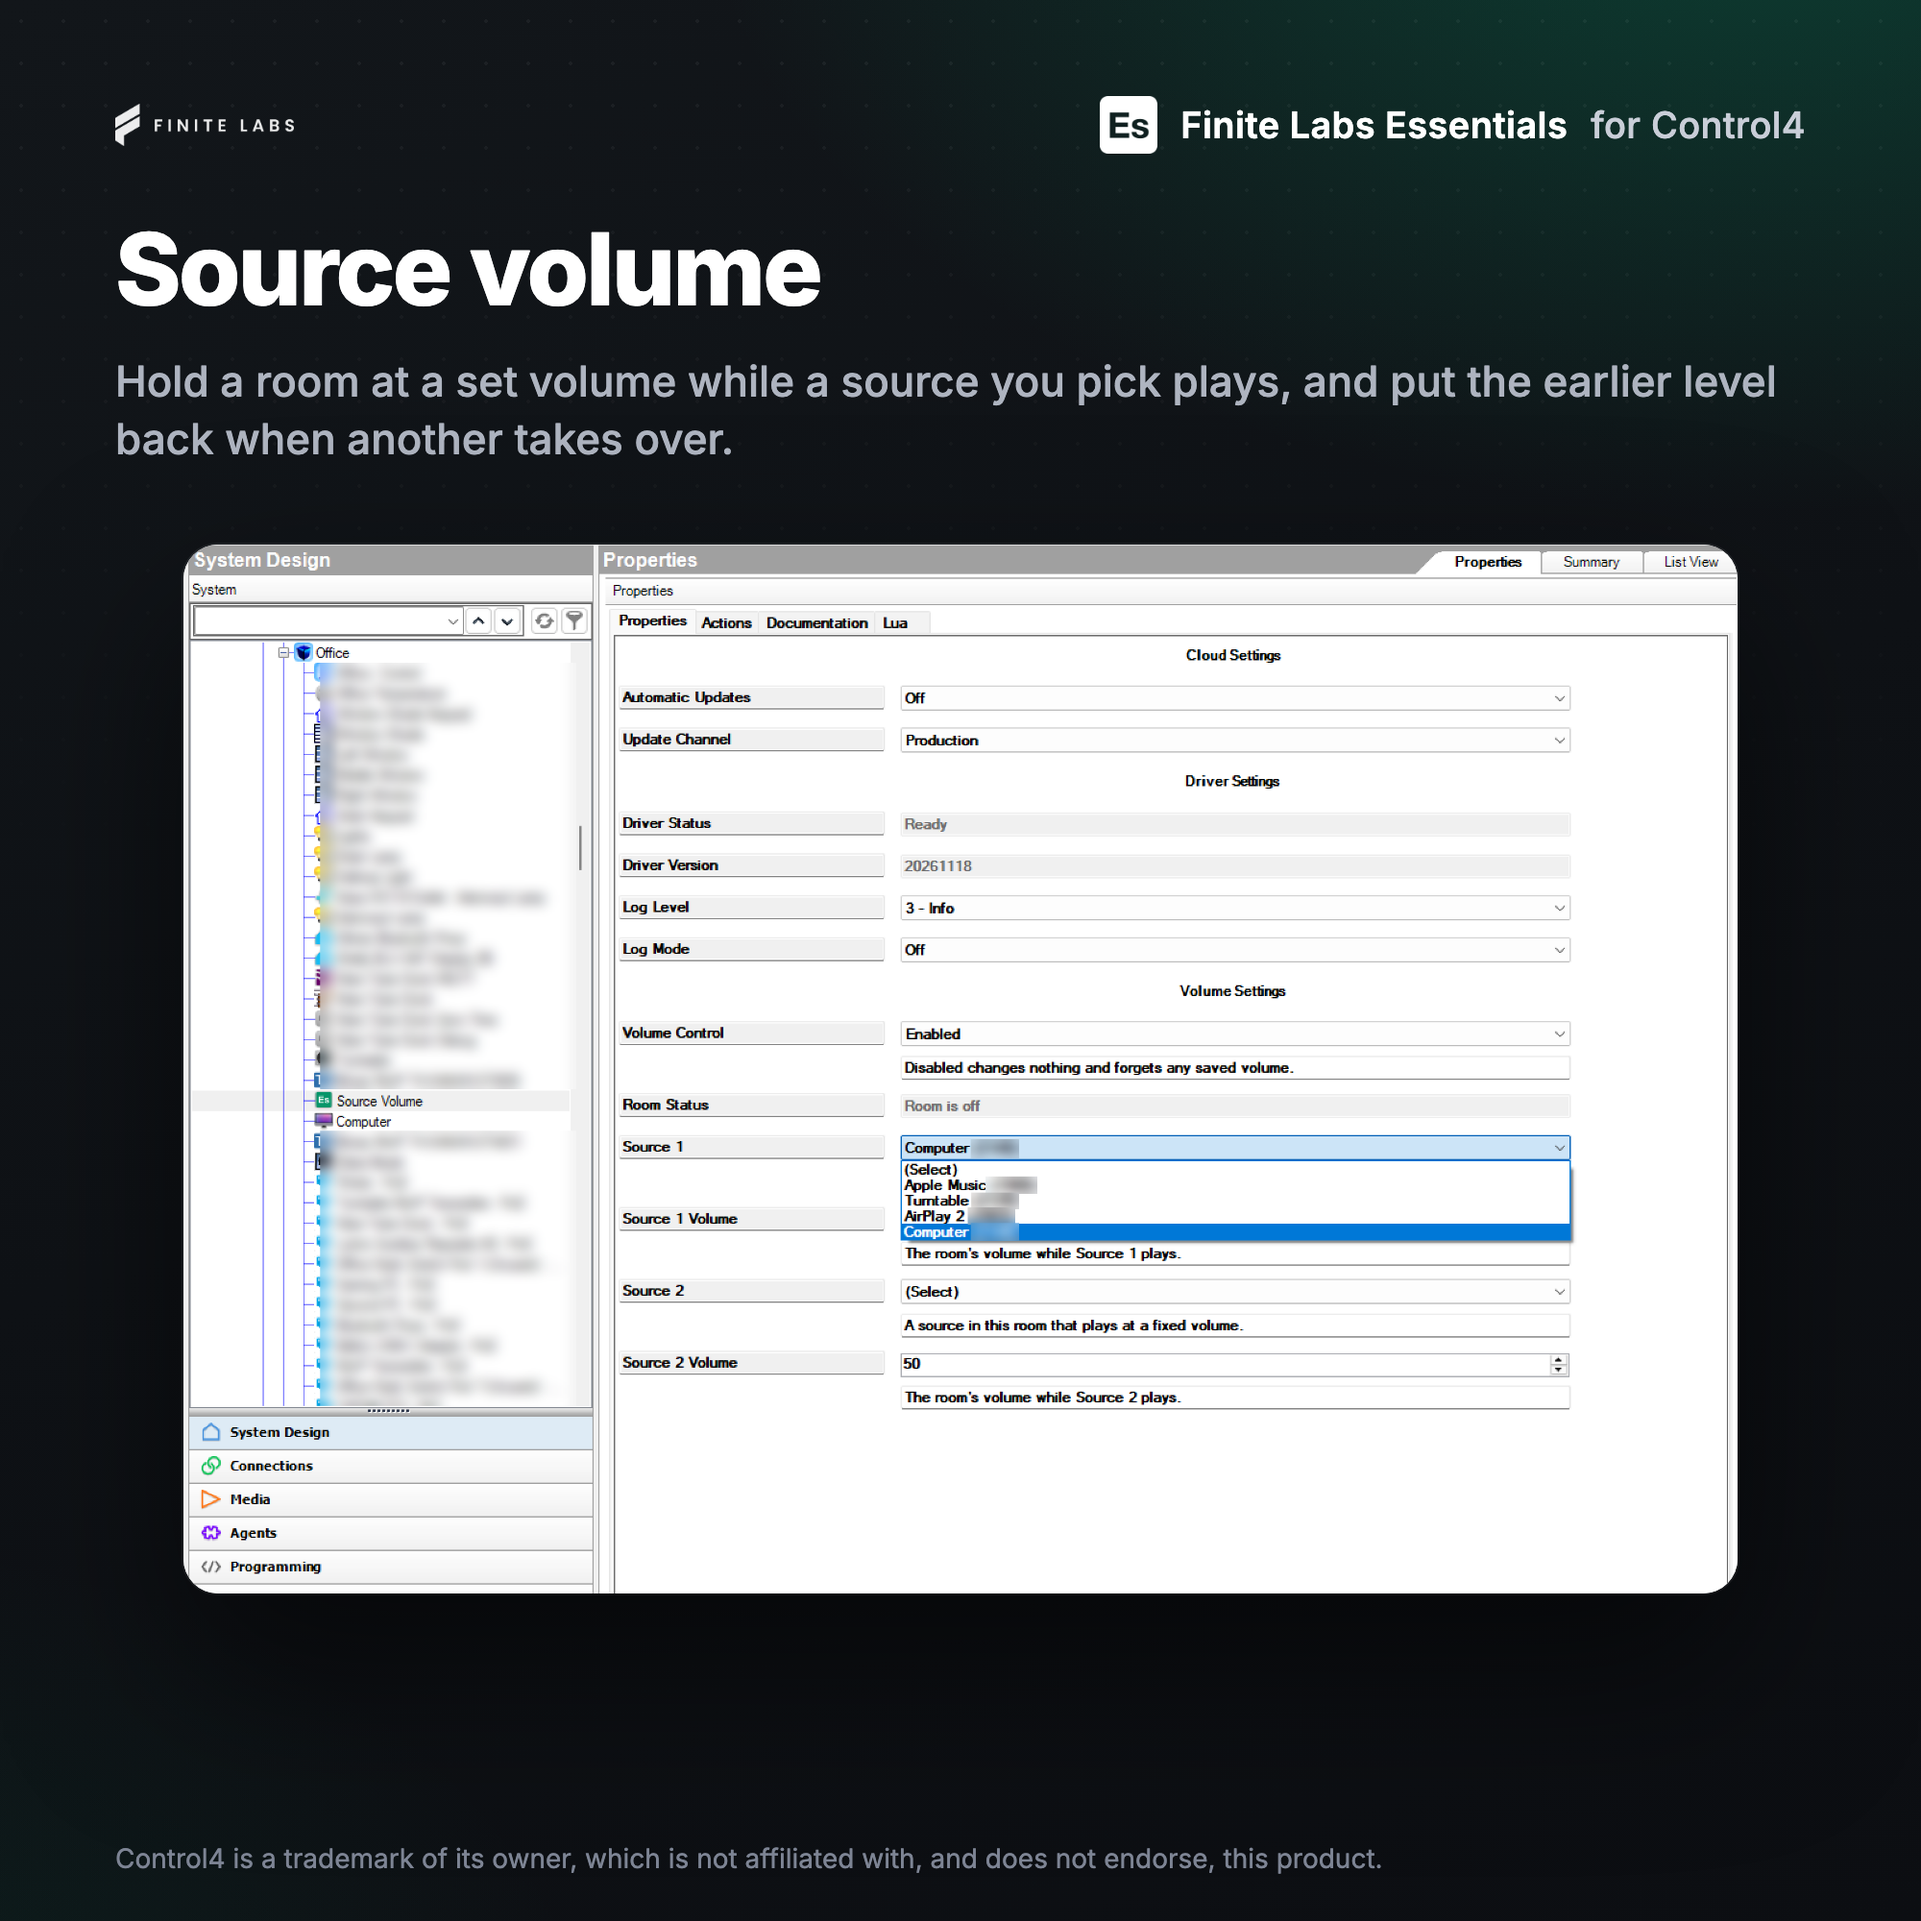
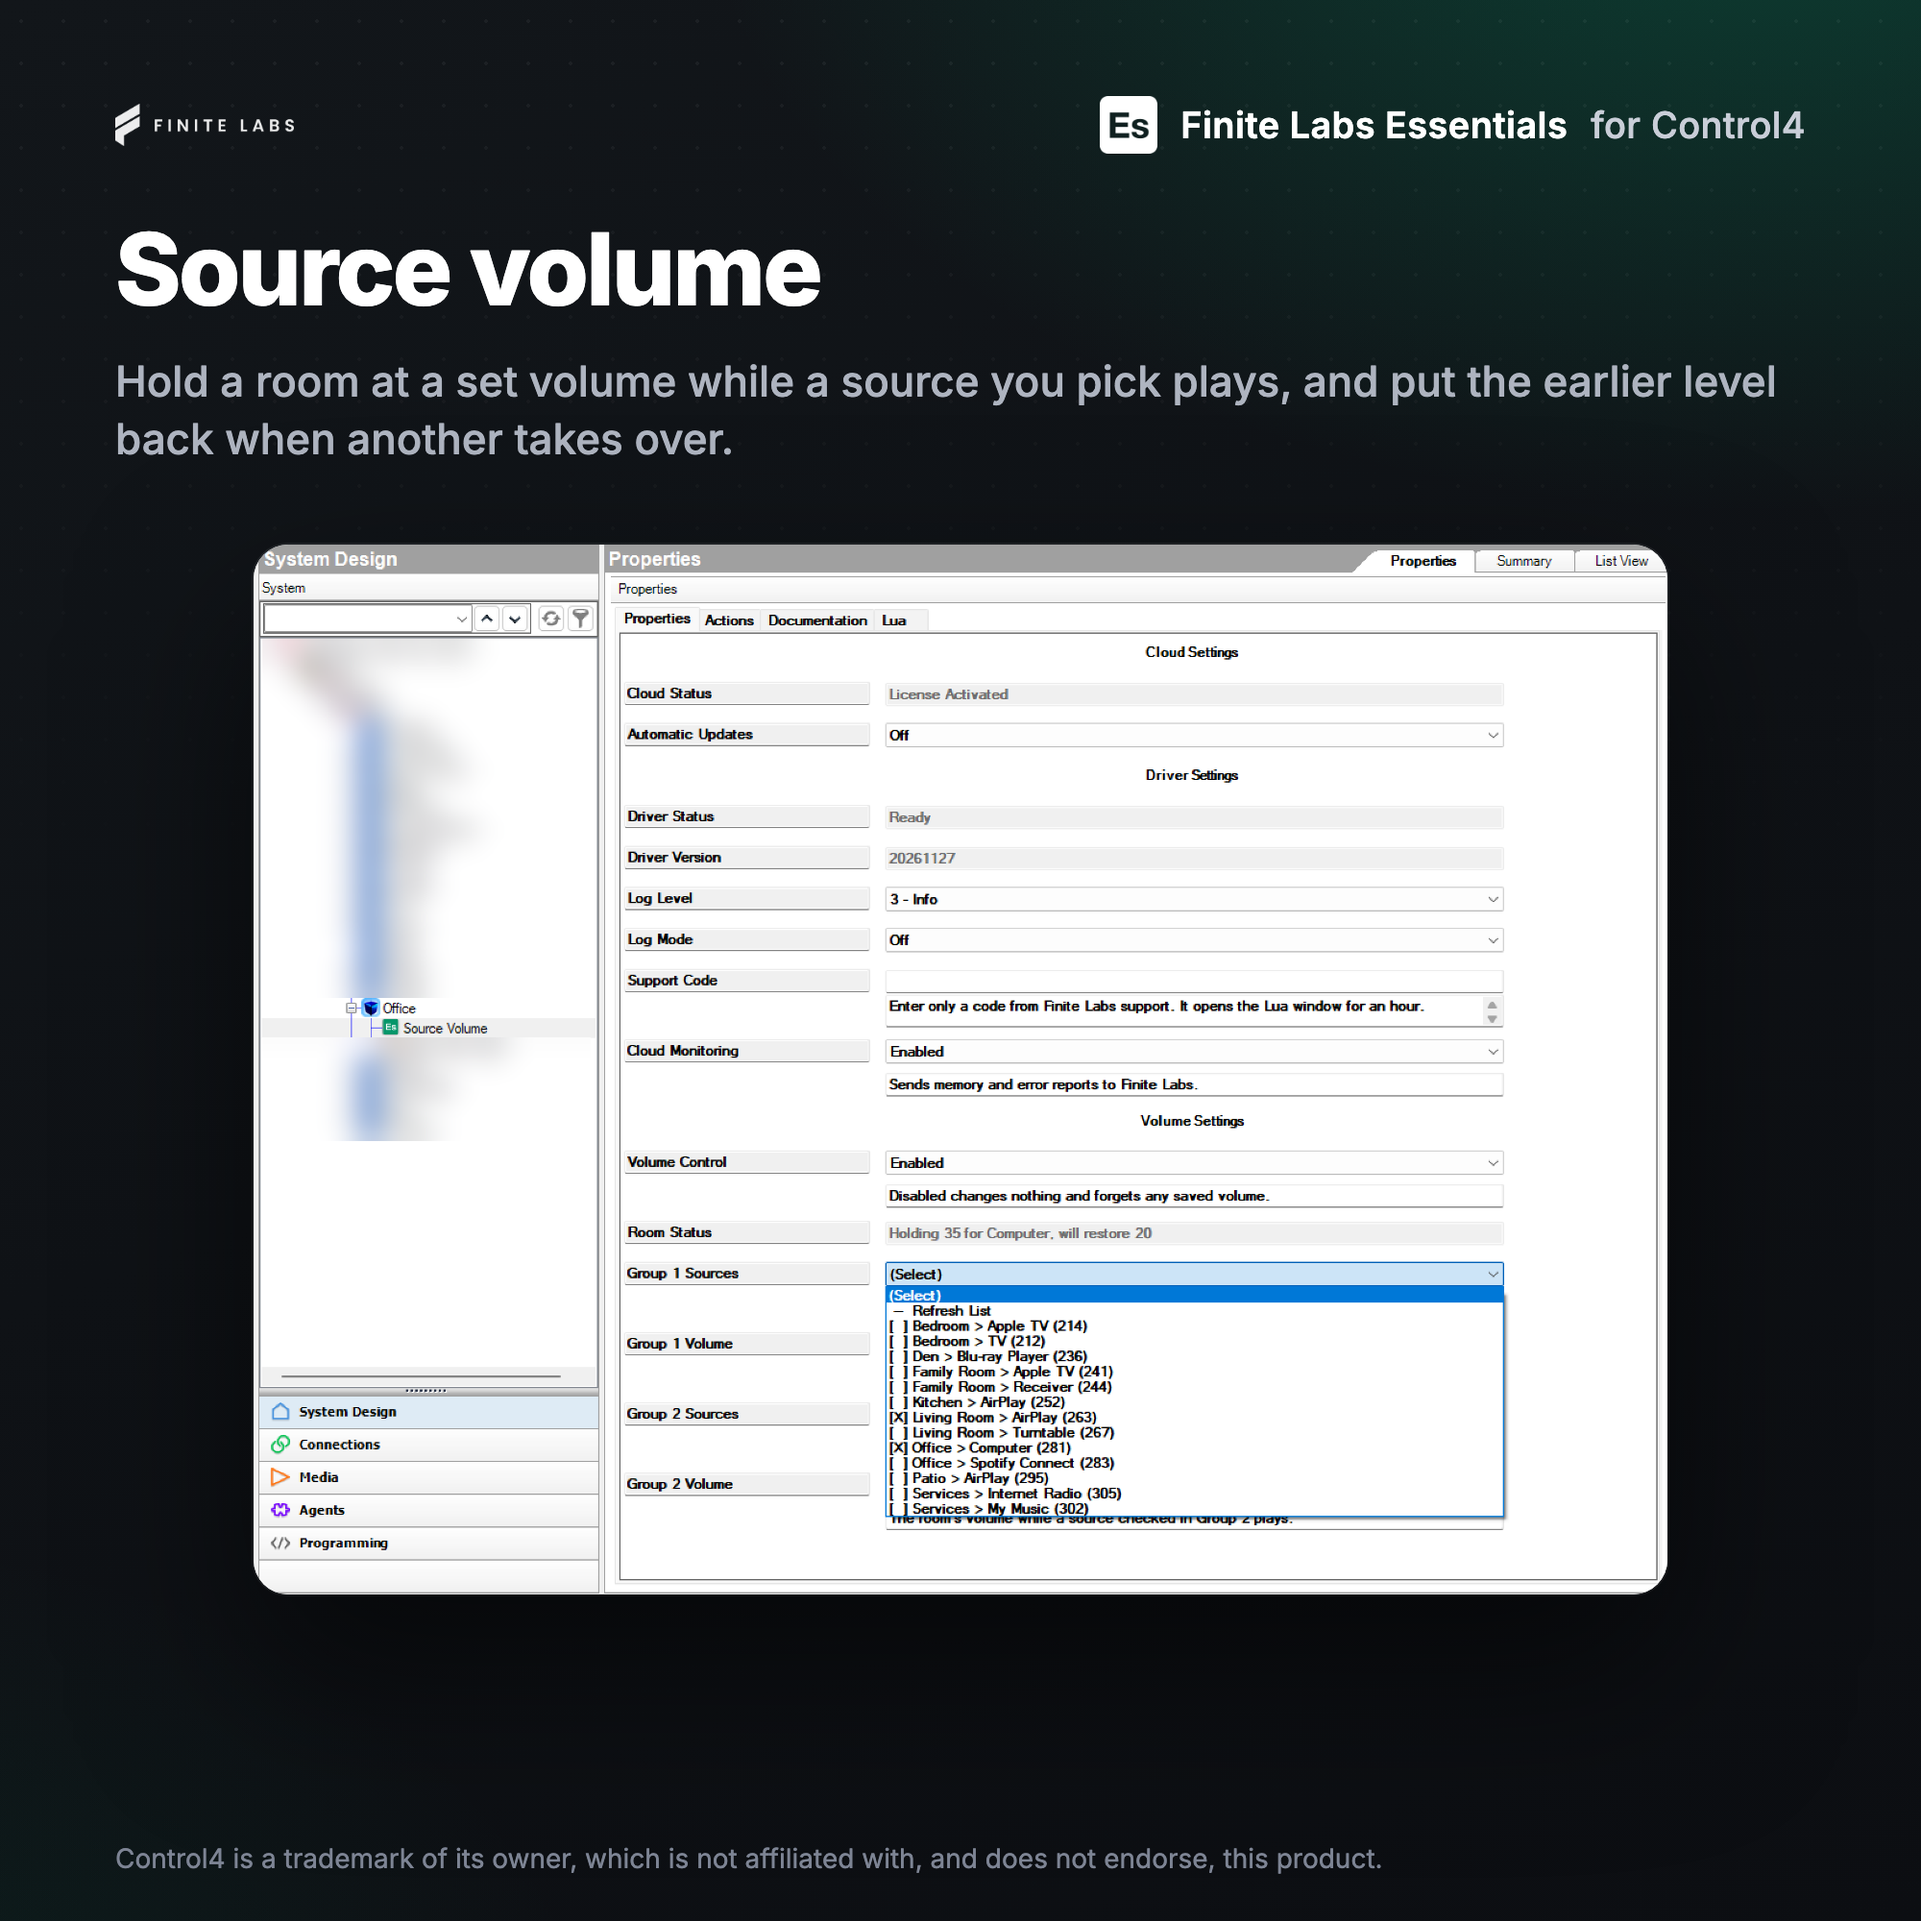
chore: Source Volume's listing shows its volume groups (#126)

Changed region(s): [[0.093, 0.279, 0.93, 0.837]]

diff --git a/resources/drivercentral/description.md b/resources/drivercentral/description.md
@@ -50,8 +50,10 @@ counting as the room's.
 
 Holds a room at a fixed volume while a source you pick is playing, and puts back
 the level the room had before when another source takes over. It suits a
-computer that sets its own volume. Each picked source has its own level, and
-sources you don't pick are left alone.
+computer that sets its own volume. Picked sources go into groups that each have
+their own level, and they can come from any room, so a room that joins another
+room's audio session holds that session's level too. Sources you don't pick are
+left alone.
 
 ### Device Programmer
 
